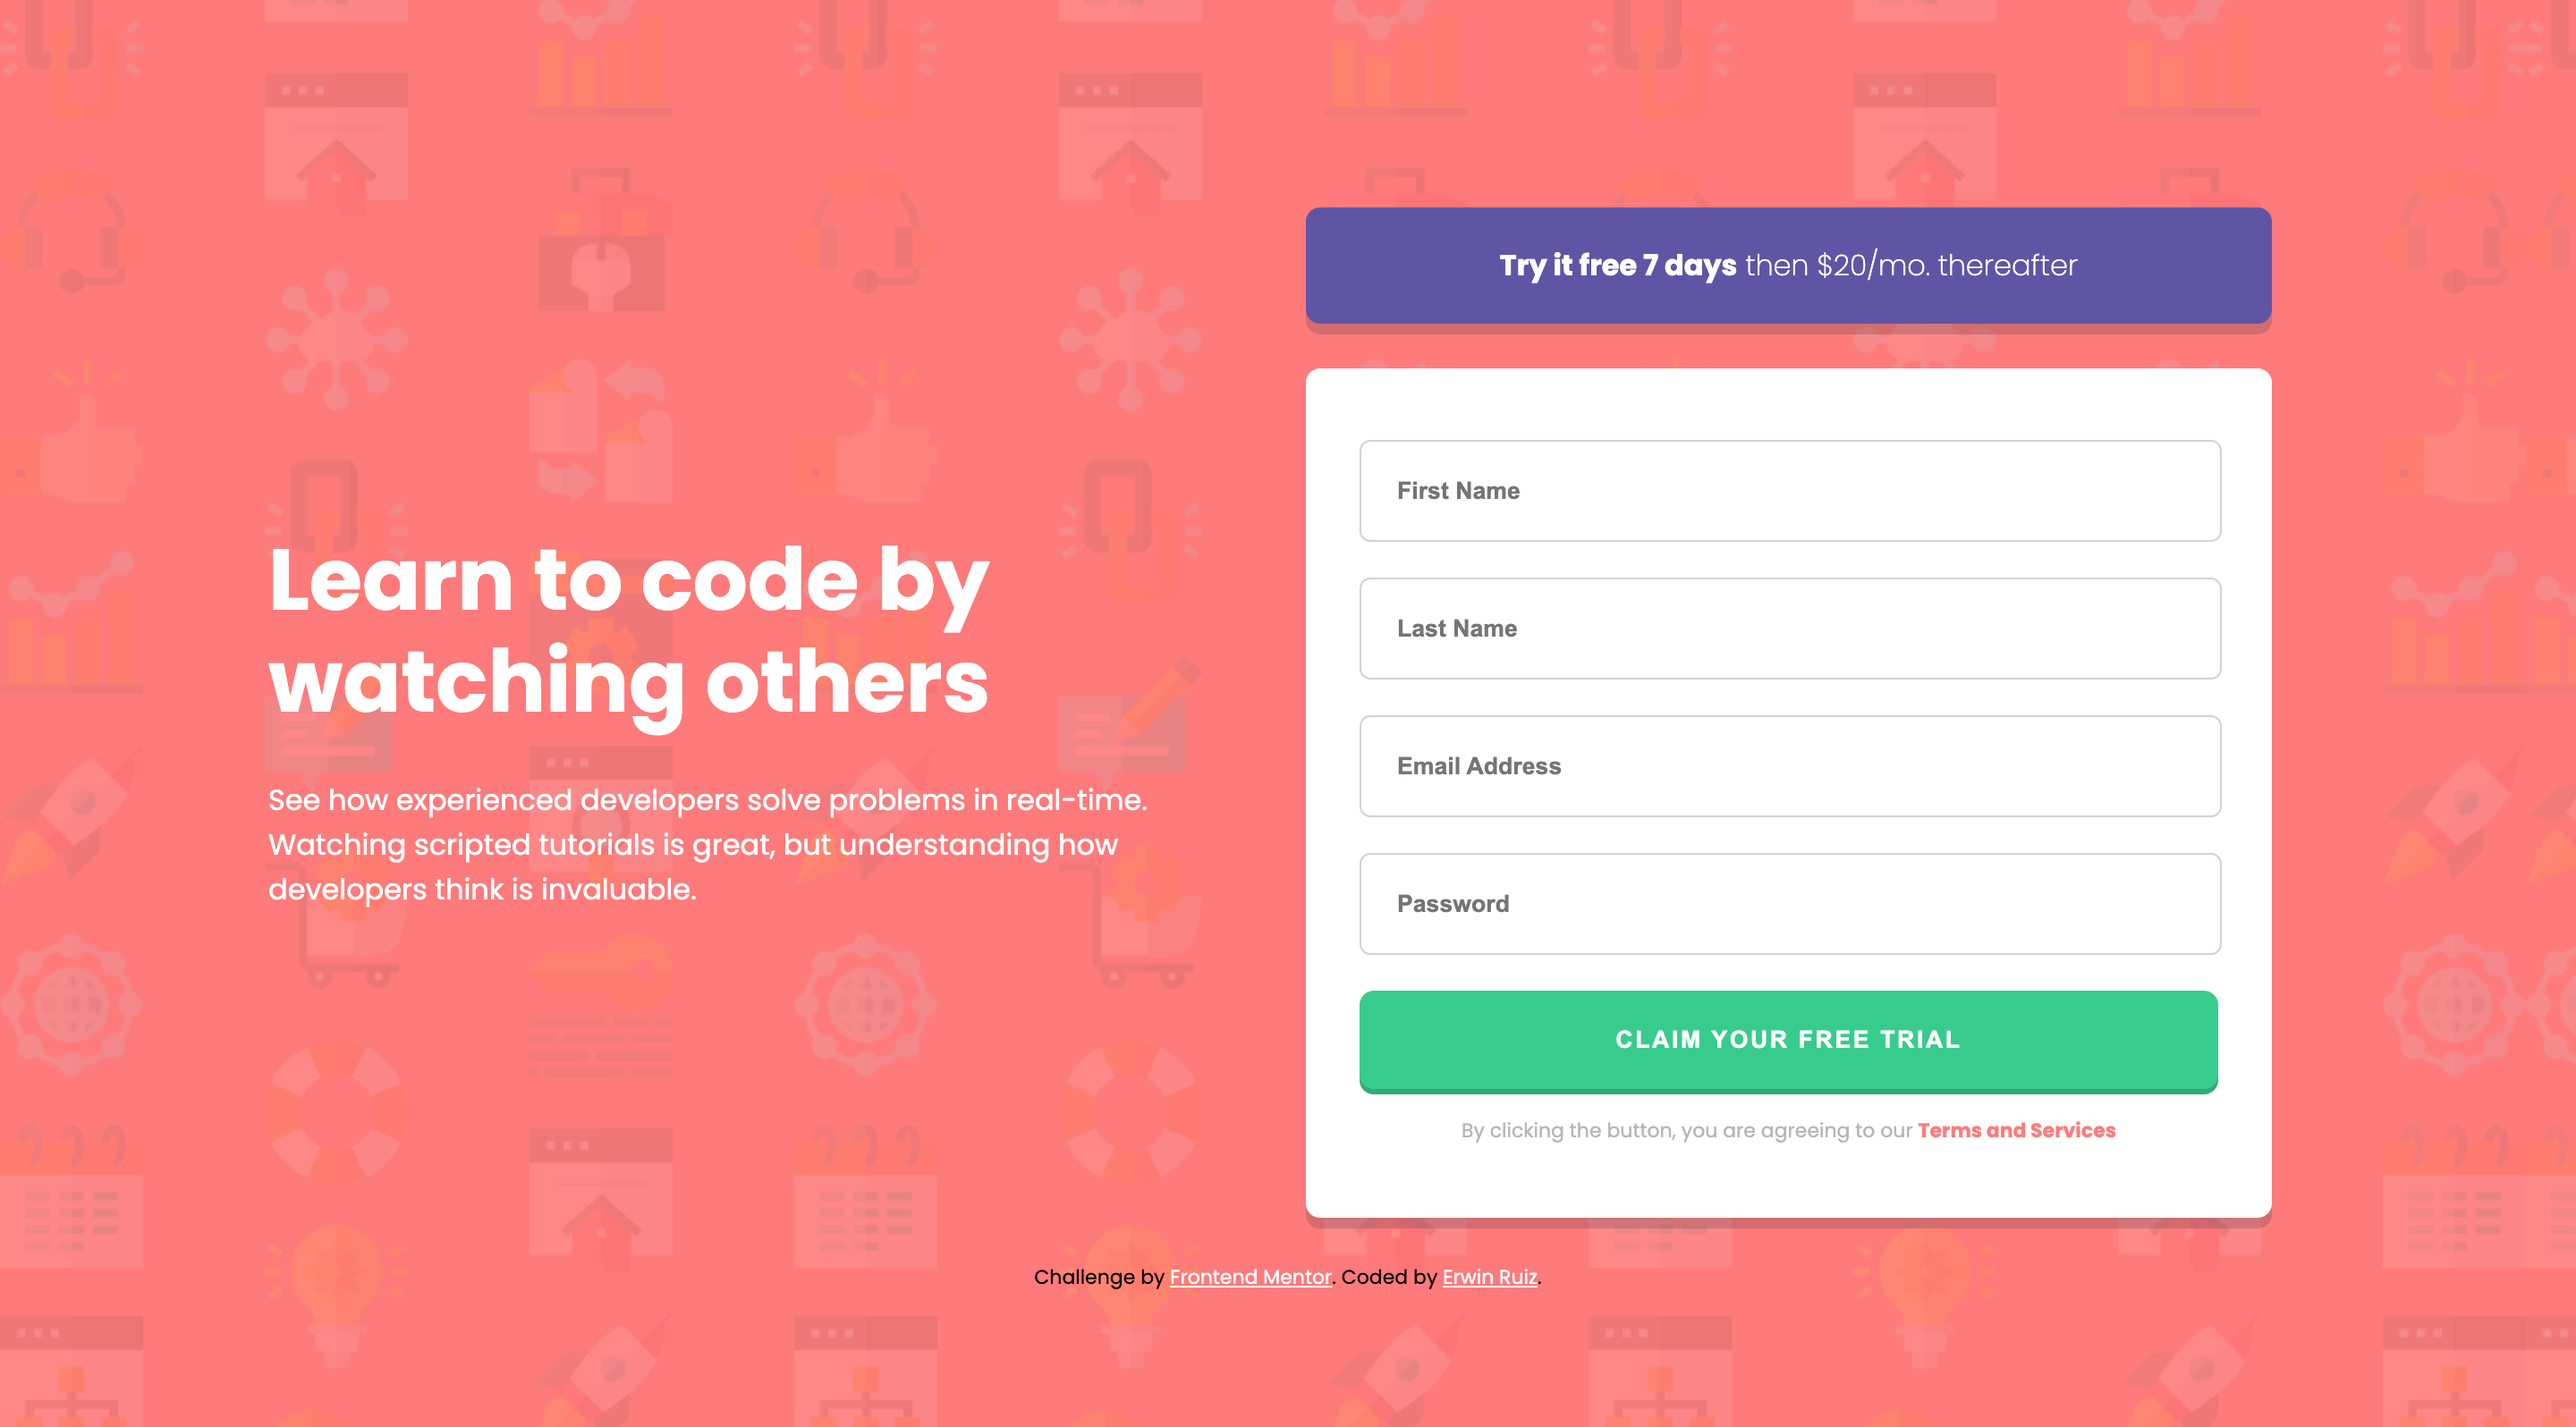
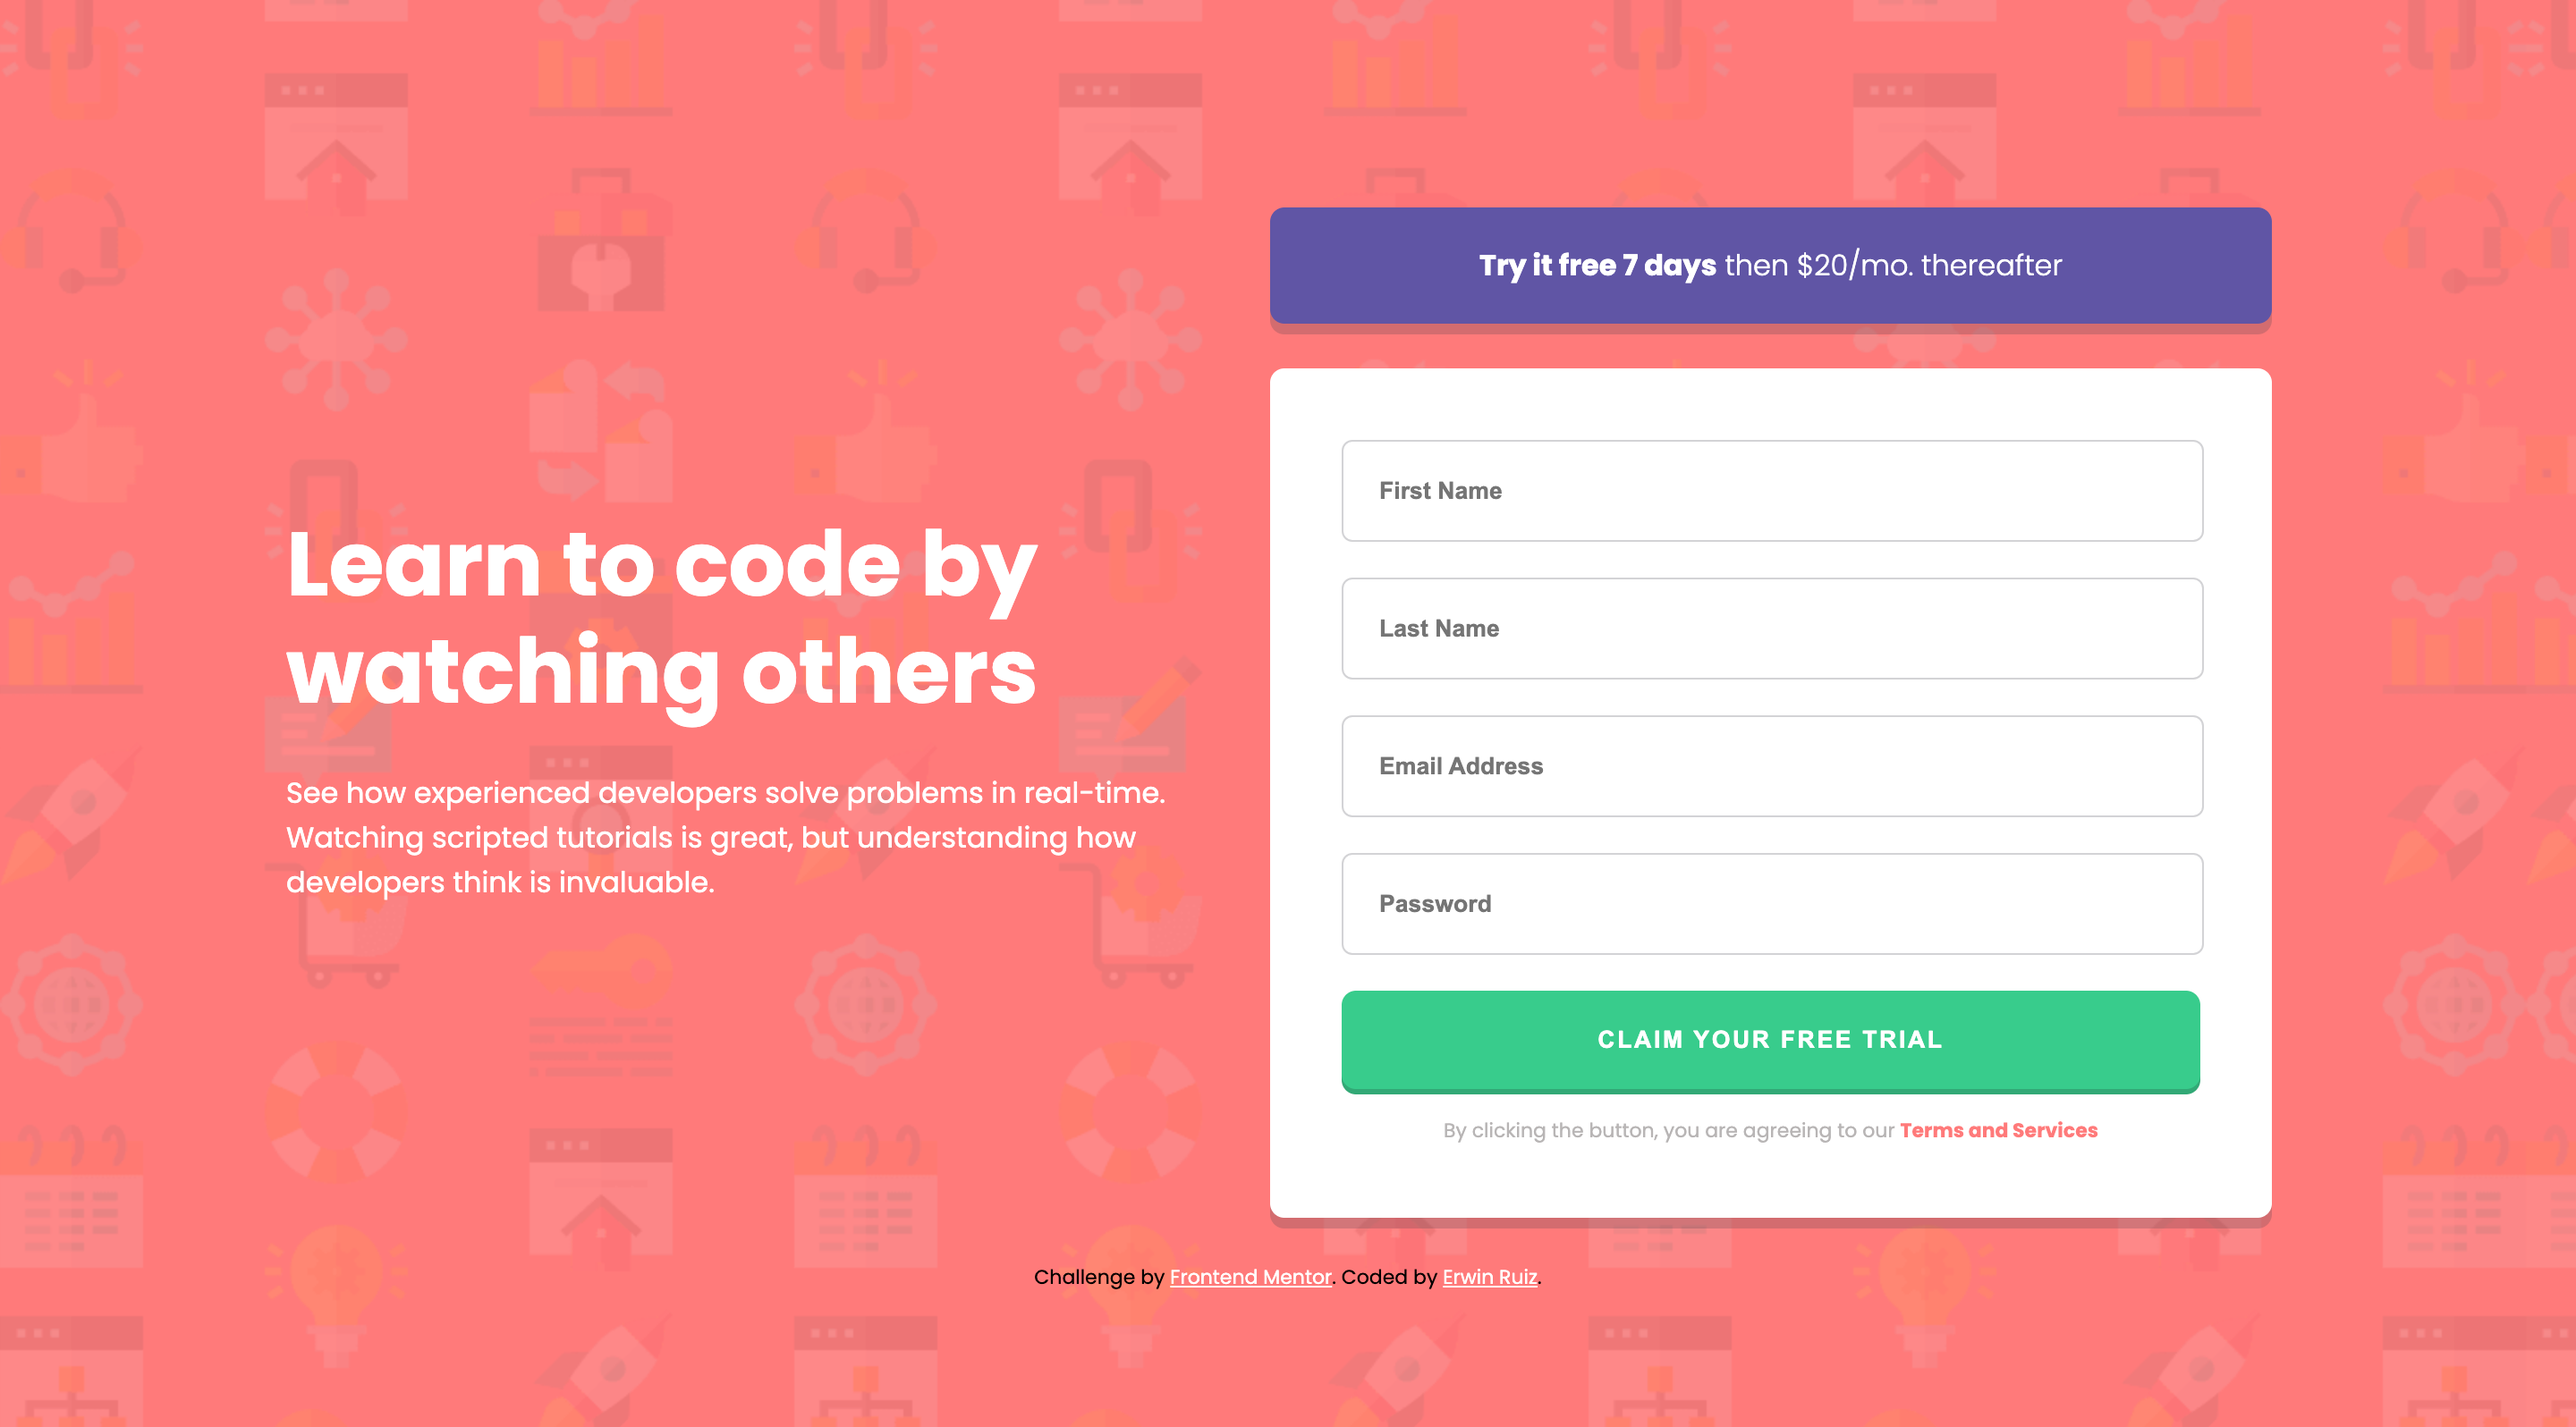
Add active state designs screenshots

diff --git a/app.css b/app.css
@@ -1,4 +1,4 @@
-@import url("https://fonts.googleapis.com/css2?family=Poppins:wght@200;400;500;600;700&display=swap");
+@import url("https://fonts.googleapis.com/css2?family=Poppins:wght@300;400;500;600;700&display=swap");
 
 :root {
   /* Primary */
@@ -56,7 +56,7 @@ section .try_free-btn {
   text-align: center;
   border-radius: 8px;
   margin-bottom: 30px;
-  font-weight: 200;
+  font-weight: 300;
   box-shadow: 0 6px 0px var(--DarkBlueTransparent);
 }
 section .try_free-btn span {
@@ -141,15 +141,15 @@ section form .error .password_message {
     padding: 0;
   }
   section {
-    width: 1140px;
+    width: 1120px;
     display: flex;
     margin: 40px 0 25px 0;
     padding: 0;
   }
   section h1 {
-    font-size: 48px;
+    font-size: 50px;
     text-align: left;
-    margin-top: 180px;
+    margin-top: 170px;
     margin-bottom: 25px;
     line-height: 1.2;
   }
@@ -159,12 +159,12 @@ section form .error .password_message {
     width: 90%;
   }
   section .try_free-btn {
-    margin: 0 20px 25px 0;
+    margin: 0 10px 25px 0;
   }
   section form {
     width: 480px;
-    padding: 40px 30px;
-    margin-right: 20px;
+    padding: 40px;
+    margin-right: 10px;
   }
   section form input {
     margin-bottom: 20px;

diff --git a/README.md b/README.md
@@ -26,7 +26,9 @@ Users should be able to:
 ### Screenshot
 
 ![](./screenshots/desktop-design.png)
+![](./screenshots/desktop-design-active-state.png)
 ![](./screenshots/mobile-design.png)
+![](./screenshots/mobile-design-active-state.png)
 
 ### Links
 
